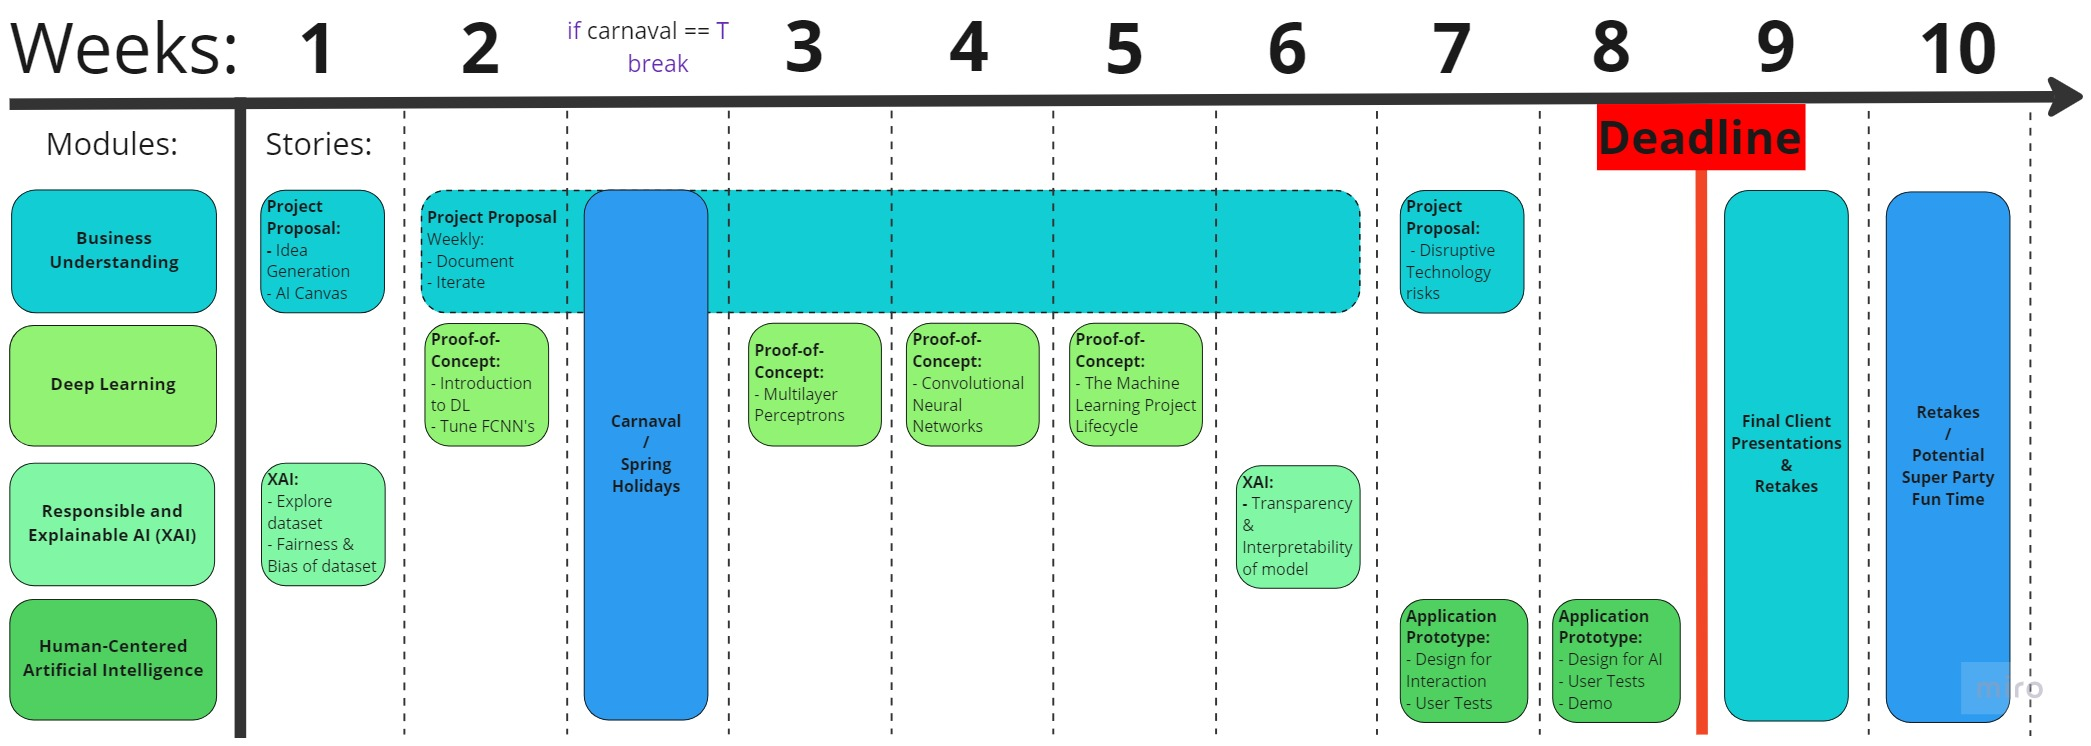
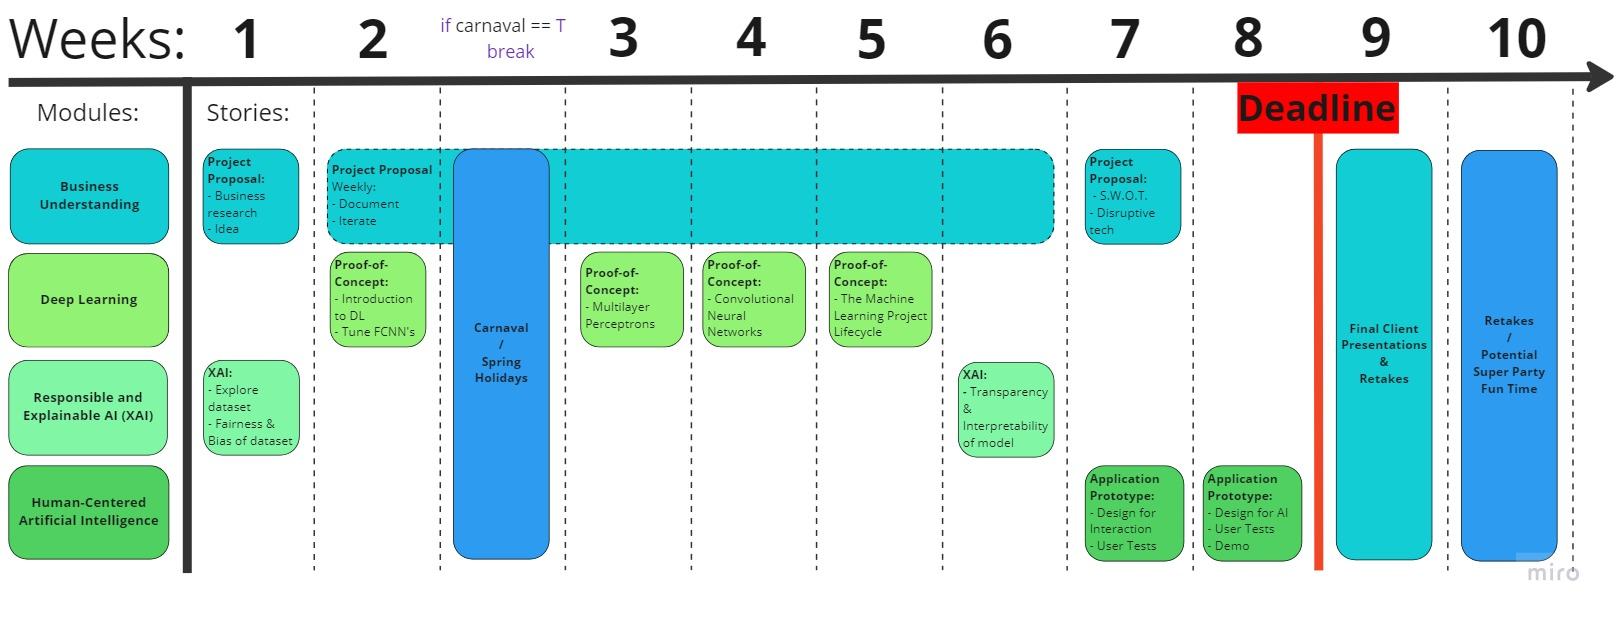
Y1C - Creative Brief Update

diff --git a/docs/Year1/BlockC/README.md b/docs/Year1/BlockC/README.md
@@ -1,30 +1,29 @@
 # Block C - Data Modelling
 
-In block A, you explored the foundations of data science and AI and critically examined applications thereof of in existing businesses processes. In block B, you went a step further and helped a real-life client get more insight out of their data using data science tools to pre-process, analyse and get insight out of data. In this block, you will take on a more hands-on approach towards data modelling using tools such as deep learning. In particular, this block will focus on key aspects of **the modelling phase of a data science project lifecycle** such as deep learning, explainable and responsible artificial intelligence (AI), and human-centered artificial intelligence. 
+In block A, you explored the foundations of data science and AI and critically examined applications thereof. In block B, you went a step further and helped a real-life client get more insight out of their data using data science tools to pre-process, analyse and get insight out of data. In this block, you will take on a more hands-on approach towards data modelling using tools such as deep learning, and you'll think about how incorperate such a model in a responsible and user-centered way. In particular, this block will focus on key aspects of **the modelling phase of a data science project lifecycle** such as deep learning, explainable and responsible artificial intelligence (AI), and human-centered artificial intelligence. 
 
 <figure>
     <img src="./images/Crisp-DM_Modelling.jpg" />
 </figure>
 <br>
 
-Therefore, we are going to create a project proposal for an smartphone application which uses the camera to scan object to achieve some kind of business value. You're going to design this application keeping the user experience, business value and disruptive technology risks in mind. The project proposal itself will take the shape of a powerpoint presentation where you argue why your deep learning model is responsible and why it adds value to the core use-case.
+Therefore, we are going to create a project proposal for an smartphone application which uses the camera to classify image input to achieve some kind of business value. You're going to design this application keeping the user experience, business value and disruptive technology risks in mind. The project proposal itself will take the shape of a powerpoint presentation where you argue why your deep learning model is responsible and why it adds value to the core use-case.
 
 The topics include, but are not limited to:
 - Business Understanding: Why create this application? What is it's value and for whom is it valuable?
 - Explainable AI: How does you deep-learning model work?
 - Deep Learning: How do we achieve the computer vision task lying at the core of your project proposal?
 - Responsible AI: Why is you model and application thereof done in a responsible manner?
-- Human-centered Artificial Intelligence: How do we design an application keeping both the user-experience and (changing) artificial intelligence algorithm in mind?
+- Human-centered Artificial Intelligence: How do we design an application keeping both the user-experience and deep learning algorithm in mind?
 
 
 ***
 
 ## Project Based Learning - Creative Brief
 
- In this project, you will develop responsible and explainable AI algorithms which are human centered.
- This assignment is based on the Kaggle Inclusive Images Challenge (see [here](http://Inclusive%20Images%20Challenge%20|%20Kaggle)) organised jointly by Google and Kaggle.
+Your goal for this creative brief is to create a project proposal for an AI application which operates in a responsible, transparent and explainable manner. To this end, you are expected to design, implement and evaluate AI algorithms based on deep neural networks that can accurately classify an image while being sensitive to biases that may be present in the data the network is trained on. Further, keeping the end user in mind, imagine a use-case where such an algorithm would have value and create a protype of an application using the concepts learned in Human-Centered AI. Finally, you need to explain why the market needs your application by creating an AI canvas, conducting market research, target audience analysis and S.W.O.T. 
 
- Large, publicly available image datasets, such as ImageNet, Open Images and Conceptual Captions are commonly used to develop and rank image classification algorithms. While these datasets are a necessary and critical part of developing useful machine learning (ML) models, some open-source data may be biased. As patterns in such datasets ultimately decide what an AI model learns and predicts, such bias may lead us to develop models that may not necessarily reflect the true reality.
+Large, publicly available image datasets, such as ImageNet, Open Images and Conceptual Captions are commonly used to develop and rank image classification algorithms. While these datasets are a necessary and critical part of developing useful machine learning (ML) models, some open-source data may be biased. As patterns in such datasets ultimately decide what an AI model learns and predicts, such bias may lead us to develop models that may not necessarily reflect the true reality.
 
 For example, the images below show the predictions of a standard AI image classifier trained to predict if a given image represents a wedding or not. While the AI correctly detects a wedding in the first 3 images, it fails to do so in the last image. This is a consequence of developing an AI algorithm without being sensitive to biases that might exist in the training data.
 
@@ -33,9 +32,32 @@ For example, the images below show the predictions of a standard AI image classi
 </figure>
 <br>
 
-Your goal for this block is to create a project proposal for an AI application which operates in a responsible, transparent and explainable manner. To this end, you are expected to design, implement and evaluate AI algorithms based on deep neural networks that can accurately classify an image while being sensitive to biases that may be present in the data the network is trained on. Further, keeping the end user in mind, imagine a use-case where such an algorithm would have value and create a protype of an application using the concepts learned in Human-Centered AI. Finally, you need to explain why the market needs your application by conducting market research, target audience analysis and S.W.O.T. 
+# Creative Brief Timeline
 
-At the beginning of the project, you will be introduced to the project by one of the lecturers. Throught out the block, you can consult the lecturers if you have any questions or wish to deepen your understanding of project. Please refer to the creative brief requirment below for more detailed information.
+In this project, you will develop a project proposal for a computer vision application which uses responsible and explainable AI algorithms which are human centered. We start with a market research to see where we can create a valuable computer vision application for based on imsitu dataset; idea generation (what to build). We will then look at the fairness & bias in the dataset and do a consumer analysis to further specify our initial idea. All the while we will document our developing project proposal in a powerpoint presentation which you are going to present in week 9.
+
+<br>
+
+Next, you will explore different deep learning models from which you will gain the skills to create your computer vision model for application. This model doesn't have to be the final product but will serve as a [proof of concept](https://en.wikipedia.org/wiki/Proof_of_concept) for you application idea. After creating the model we are going to look at how we can explain the model to our client and how we can ensure that our model is fair, unbiased and transparent (based on the Kaggle Inclusive Images Challenge (see [here](http://Inclusive%20Images%20Challenge%20|%20Kaggle)) ).
+
+<br>
+
+Finally, we will design an application from our idea and AI canvas which incorperates our computer vision algorithm and allows it continiously learn from new incoming data. The application design is going to be represented by a wireframe prototype. We will also perform some preliminary user-tests, analyse relevant disruptive technology risk and accumulate our finding in a S.W.O.T. analysis. We will bring all this together in our project proposal powerpoint presentation which will present in a final presentation to the client in week 9 where you'll be givent the chance to showcase, explain and defend your proposed project and its components. 
+
+
+The project timeline below is aligned with the knowledge modules you will find on this page.
+
+<figure>
+<center>
+    <img src="./images/TimelineCreativeBrief.jpg" />
+</center>
+</figure>
+<br>
+----
+
+
+
+At the beginning of the project, you will be introduced to the project by one of the lecturers. Throught out the block, you can consult the lecturers if you have any questions or wish to deepen your understanding of project or educational material. If you have ILO-specific questions please take a look at the staff table and consult the responsible lecturer. Please refer to the creative brief requirements below for more detailed information.
 
 
 
@@ -62,20 +84,8 @@ If you have questions or issues regarding the course material, please post a mes
 
 ---
 
-# Creative Brief Timeline
-
-The project timeline is aligned with the knowledge modules you will find in the ADS&AI digital learning environment.
-
-<figure>
-<center>
-    <img src="./images/TimelineCreativeBrief.jpg" />
-</center>
-</figure>
-<br>
-
 Below you're find the timeline on a day-to-day basis. Further down there's info on the medals and staff for this block; which includes which staff member to go to for ILO-specific questions. 
 
-***
 
 
 # Week 1: Responsible AI (Part 1: Bias and Fairness) & Marketing
@@ -256,15 +266,17 @@ We made a example selection of valuable resources for extracurricular learning a
 
 ### Human-Centered Artificial Intelligence:
 - [AI guidebook provided by Google](https://pair.withgoogle.com/guidebook)
-− [Designing with Data](http://shop.oreilly.com/product/0636920026228.do)
-− [The Design of Everyday Things, Donald A. Norman](https://login.proxy1.dom1.nhtv.nl/login?url=https://search.ebscohost.com/login.aspx?direct=true&db=cat01829a&AN=buas.393706974&site=eds-live)
+- [Designing with Data](http://shop.oreilly.com/product/0636920026228.do)
+- [The Design of Everyday Things, Donald A. Norman](https://login.proxy1.dom1.nhtv.nl/login?url=https://search.ebscohost.com/login.aspx?direct=true&db=cat01829a&AN=buas.393706974&site=eds-live)
 - [Adaptive AI Interfaces](https://design.google/library/ux-ai/)
 
 ## Medal Challenges 
 
 The medal courses for this block have been specifically selected to help boost your portfolio and extend your knowledge and expertise. You may also finish them after the initial deadline!
 
-![badge](https://custom-icon-badges.herokuapp.com/badge/ADS&AI-1x-orange.svg?logo=bronzemedal) ![badge](https://custom-icon-badges.herokuapp.com/badge/ADS&AI-1x-orange.svg?logo=silvermedal) ![badge](https://custom-icon-badges.herokuapp.com/badge/ADS&AI-1x-orange.svg?logo=goldmedal)
+- ![badge](https://custom-icon-badges.herokuapp.com/badge/ADS&AI-1x-orange.svg?logo=bronzemedal) Bronze: ....
+- ![badge](https://custom-icon-badges.herokuapp.com/badge/ADS&AI-1x-orange.svg?logo=silvermedal) Silver: ....
+- ![badge](https://custom-icon-badges.herokuapp.com/badge/ADS&AI-1x-orange.svg?logo=goldmedal) Gold: ....
 
 ## Staff Members
 
